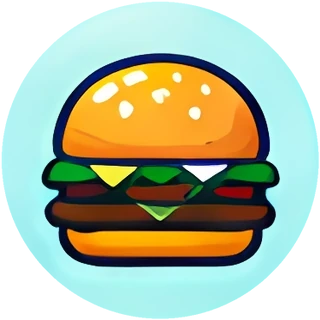
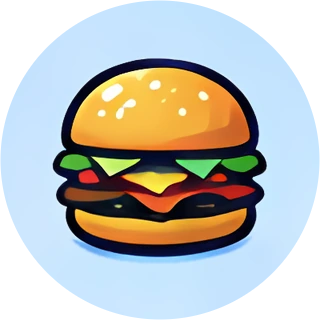
Images de profil v2 : 40 images de la nouvelle planche, agrandies et recentrées, nouveaux niveaux (v170)
Claude-Session: https://claude.ai/code/session_015rMa72ZKTeXG5gb4Qifn48

diff --git a/js/app.js b/js/app.js
@@ -1,17 +1,17 @@
 // Y'a du peuple ? — logique de l'appli (carte, fiche, signalement, compte).
-import { api, DEMO } from './api.js?v=169';
+import { api, DEMO } from './api.js?v=170';
 import {
   MAP_STYLE_URL, DEFAULT_CENTER, DEFAULT_ZOOM, CONTACT_EMAIL, GOOGLE_CLIENT_ID,
   ROUTE, REFRESH_MS,
-} from './config.js?v=169';
+} from './config.js?v=170';
 import {
   LEVELS, LEVEL_INFO, WAIT_INFO, NO_INFO, levelInfo, describeStatus, mainStatus, brandShort,
   theoryLevelAt, parisNow, bestTimeToday, fmtHour, distanceM, fmtDistance, ago,
   levelFromPercent, gDay, dayHours, openDuringHour, bestTimeFromProfile, openState, hoursLines,
   estimateRoute, fmtDuration,
-} from './levels.js?v=169';
-import { airbnbize, addShieldImage } from './mapstyle.js?v=169';
-import { BRAND_PATHS } from './brands.js?v=169';
+} from './levels.js?v=170';
+import { airbnbize, addShieldImage } from './mapstyle.js?v=170';
+import { BRAND_PATHS } from './brands.js?v=170';
 
 // ---------------------------------------------------------------------------
 // État
@@ -1592,7 +1592,7 @@ async function renderAccount(tab = 'profil') {
     </div>
     <div class="referral">
       <div class="ref-head">
-        <img class="ref-ico" src="icons/badges/ref1.webp?v=169" alt="">
+        <img class="ref-ico" src="icons/badges/ref1.webp?v=170" alt="">
         <div class="grow"><div class="t">Parrainage</div><div class="s">Invite tes amis : vous gagnez tous les deux.</div></div>
         <span class="ref-count"><b>${p.referrals ?? 0}</b>${(p.referrals ?? 0) > 1 ? 'amis' : 'ami'}</span>
       </div>
@@ -1638,8 +1638,8 @@ const custom = {
   async load() { if (!this.list.length) this.list = await api.customizations() || []; return this.list; },
   find(kind, code) { return this.list.find((c) => c.kind === kind && c.code === code); },
   // Valeur = fichier image de l'appli (icons/avatars/…svg, icons/banners/…svg) ; ancien format emoji/dégradé toléré.
-  img(v, cls = '') { return /\.(webp|png|svg)$/.test(v || '') ? `<img src="${v}?v=169" alt="" class="${cls}">` : (v || ''); },
-  bg(v) { return /\.(webp|png|svg)$/.test(v || '') ? `url(${v}?v=169) center/cover` : v; },
+  img(v, cls = '') { return /\.(webp|png|svg)$/.test(v || '') ? `<img src="${v}?v=170" alt="" class="${cls}">` : (v || ''); },
+  bg(v) { return /\.(webp|png|svg)$/.test(v || '') ? `url(${v}?v=170) center/cover` : v; },
   avatar(code) { return this.img(this.find('avatar', code)?.value, 'avatar-img' + (String(code).startsWith('badge_') ? ' is-badge' : '')); },
   // Bannière = ruban qui porte le pseudo (rubans du 16/11/2026, outils/rubans_sheet2.py, découpés tels quels).
   // Pseudo : centré sur la bande de chaque ruban (hauteur mesurée) + contour de la couleur du ruban, foncée.
@@ -1647,7 +1647,7 @@ const custom = {
   ribbon(code, pseudo) {
     const b = this.find('banner', code) || this.list.find((c) => c.kind === 'banner');
     const [ty, tc] = this.RIB[b?.code] || ['46%', '#0B1F3A'];
-    return `<div class="ribbon" style="--ty:${ty};--tc:${tc}">${b ? `<img src="${b.value}?v=169" alt="">` : ''}<span>${esc(pseudo || '')}</span></div>`;
+    return `<div class="ribbon" style="--ty:${ty};--tc:${tc}">${b ? `<img src="${b.value}?v=170" alt="">` : ''}<span>${esc(pseudo || '')}</span></div>`;
   },
 };
 async function openCustomize() {
@@ -1659,7 +1659,7 @@ async function openCustomize() {
     const needBadge = c.requires_badge && !mine.has(c.requires_badge);
     const locked = lvl < c.min_level || needBadge;
     const on = (c.kind === 'avatar' ? p.avatar : p.banner) === c.code;
-    const inner = c.kind === 'avatar' ? `<span class="cz-emoji">${custom.img(c.value, 'cz-img')}</span>` : `<span class="cz-ribbon"><img src="${c.value}?v=169" alt=""></span>`;
+    const inner = c.kind === 'avatar' ? `<span class="cz-emoji">${custom.img(c.value, 'cz-img')}</span>` : `<span class="cz-ribbon"><img src="${c.value}?v=170" alt=""></span>`;
     const label = c.requires_badge ? (needBadge ? '🔒' : '✅') : `${locked ? '🔒 ' : ''}Niv. ${c.min_level}`;
     return `<button type="button" class="cz ${on ? 'on' : ''} ${locked ? 'locked' : ''}" data-kind="${c.kind}" data-code="${c.code}" ${locked ? 'disabled' : ''}>
       ${inner}<span class="cz-lock">${esc(label)}</span></button>`;
@@ -1739,7 +1739,7 @@ const BADGE_ART = new Set(['v1', 'v10', 'v50', 'v100', 'v250', 'v500', 'drive10'
 // Badges en .svg : plus aucun (outils/badges_sheet.py et badges_sheet2.py découpent les images ChatGPT).
 const BADGE_SVG = new Set(); // tous les badges sont maintenant des images ChatGPT (.webp)
 const badgeImg = (code) => BADGE_ART.has(code)
-  ? `<img src="icons/badges/${code}.${BADGE_SVG.has(code) ? 'svg' : 'webp'}?v=169" alt="" class="badge-img">`
+  ? `<img src="icons/badges/${code}.${BADGE_SVG.has(code) ? 'svg' : 'webp'}?v=170" alt="" class="badge-img">`
   : `<span class="badge-emoji">${BADGE_ICONS[code] || '🏅'}</span>`;
 async function badgesHtml() {
   const rows = await api.badgesProgress() || [];

diff --git a/js/demo.js b/js/demo.js
@@ -1,6 +1,6 @@
 // Faux serveur pour le mode démo (?demo) : aucune donnée réelle n'est lue ni écrite.
-import { DEMO_ESTABLISHMENTS } from './demo-data.js?v=169';
-import { distanceM, LEVELS, theoryLevelAt, parisNow } from './levels.js?v=169';
+import { DEMO_ESTABLISHMENTS } from './demo-data.js?v=170';
+import { distanceM, LEVELS, theoryLevelAt, parisNow } from './levels.js?v=170';
 
 const wait = (ms = 150) => new Promise((r) => setTimeout(r, ms));
 
@@ -102,30 +102,38 @@ export function createDemoApi() {
         ['avatar', 'tacos', 'icons/avatars/tacos.webp', 1],
         ['avatar', 'glace', 'icons/avatars/glace.webp', 1],
         ['avatar', 'cafe', 'icons/avatars/cafe.webp', 1],
+        ['avatar', 'sandwich', 'icons/avatars/sandwich.webp', 3],
+        ['avatar', 'milkshake', 'icons/avatars/milkshake.webp', 3],
         ['avatar', 'popcorn', 'icons/avatars/popcorn.webp', 5],
         ['avatar', 'donut', 'icons/avatars/donut.webp', 5],
-        ['avatar', 'cupcake', 'icons/avatars/cupcake.webp', 10],
+        ['avatar', 'pomme', 'icons/avatars/pomme.webp', 8],
+        ['avatar', 'patte', 'icons/avatars/patte.webp', 8],
         ['avatar', 'coeur', 'icons/avatars/coeur.webp', 10],
+        ['avatar', 'musique', 'icons/avatars/musique.webp', 10],
         ['avatar', 'etoile', 'icons/avatars/etoile.webp', 15],
-        ['avatar', 'voiture', 'icons/avatars/voiture.webp', 15],
+        ['avatar', 'foot', 'icons/avatars/foot.webp', 15],
+        ['avatar', 'basket', 'icons/avatars/basket.webp', 18],
+        ['avatar', 'photo', 'icons/avatars/photo.webp', 18],
         ['avatar', 'chat', 'icons/avatars/chat.webp', 20],
         ['avatar', 'chien', 'icons/avatars/chien.webp', 20],
         ['avatar', 'panda', 'icons/avatars/panda.webp', 25],
-        ['avatar', 'renard', 'icons/avatars/renard.webp', 25],
-        ['avatar', 'chouette', 'icons/avatars/chouette.webp', 30],
-        ['avatar', 'ours', 'icons/avatars/ours.webp', 30],
+        ['avatar', 'arbre', 'icons/avatars/arbre.webp', 25],
+        ['avatar', 'gamer', 'icons/avatars/gamer.webp', 30],
+        ['avatar', 'cadeau', 'icons/avatars/cadeau.webp', 30],
         ['avatar', 'trefle', 'icons/avatars/trefle.webp', 35],
         ['avatar', 'eclair', 'icons/avatars/eclair.webp', 35],
         ['avatar', 'flamme', 'icons/avatars/flamme.webp', 40],
         ['avatar', 'lunettes', 'icons/avatars/lunettes.webp', 40],
-        ['avatar', 'lion', 'icons/avatars/lion.webp', 45],
-        ['avatar', 'medaille', 'icons/avatars/medaille.webp', 45],
+        ['avatar', 'alien', 'icons/avatars/alien.webp', 45],
+        ['avatar', 'robot', 'icons/avatars/robot.webp', 45],
         ['avatar', 'trophee', 'icons/avatars/trophee.webp', 50],
-        ['avatar', 'licorne', 'icons/avatars/licorne.webp', 60],
-        ['avatar', 'dragon', 'icons/avatars/dragon.webp', 70],
+        ['avatar', 'ninja', 'icons/avatars/ninja.webp', 55],
+        ['avatar', 'pirate', 'icons/avatars/pirate.webp', 55],
+        ['avatar', 'montagne', 'icons/avatars/montagne.webp', 60],
+        ['avatar', 'vacances', 'icons/avatars/vacances.webp', 70],
         ['avatar', 'diamant', 'icons/avatars/diamant.webp', 80],
-        ['avatar', 'couronne', 'icons/avatars/couronne.webp', 90],
-        ['avatar', 'fusee', 'icons/avatars/fusee.webp', 100],
+        ['avatar', 'fusee', 'icons/avatars/fusee.webp', 90],
+        ['avatar', 'couronne', 'icons/avatars/couronne.webp', 100],
         ['banner', 'ruban_ciel', 'icons/banners/ruban_ciel.webp', 1],
         ['banner', 'ruban_bonbon', 'icons/banners/ruban_bonbon.webp', 1],
         ['banner', 'ruban_turquoise', 'icons/banners/ruban_turquoise.webp', 1],

diff --git a/index.html b/index.html
@@ -21,13 +21,13 @@
   <link rel="preconnect" href="https://tiles.openfreemap.org" crossorigin>
   <link rel="preconnect" href="https://ygekcpnsjbbdgtmlxdce.supabase.co" crossorigin>
   <link rel="manifest" href="manifest.webmanifest">
-  <link rel="icon" href="icons/fav-64.png?v=169" type="image/png" sizes="64x64">
-  <link rel="icon" href="icons/fav-192.png?v=169" type="image/png" sizes="192x192">
-  <link rel="apple-touch-icon" href="icons/icon-192.png?v=169">
+  <link rel="icon" href="icons/fav-64.png?v=170" type="image/png" sizes="64x64">
+  <link rel="icon" href="icons/fav-192.png?v=170" type="image/png" sizes="192x192">
+  <link rel="apple-touch-icon" href="icons/icon-192.png?v=170">
   <meta name="apple-mobile-web-app-capable" content="yes">
   <meta name="apple-mobile-web-app-status-bar-style" content="default">
   <link rel="stylesheet" href="vendor/maplibre-gl.css">
-  <link rel="stylesheet" href="css/app.css?v=169">
+  <link rel="stylesheet" href="css/app.css?v=170">
 </head>
 <body class="intro">
   <div id="map" aria-label="Carte des restaurants"></div>
@@ -70,7 +70,7 @@
   <section class="welcome" id="welcome" hidden>
     <div class="welcome-inner">
       <div class="welcome-logo">
-        <img src="icons/icon-512.png?v=169" alt="" width="110" height="110" style="border-radius:26px">
+        <img src="icons/icon-512.png?v=170" alt="" width="110" height="110" style="border-radius:26px">
       </div>
       <h1>Y'a du peuple&nbsp;?</h1>
       <p class="slogan" id="slogan">Venu pour manger, pas pour poireauter.</p>
@@ -89,6 +89,6 @@
 
   <script src="vendor/maplibre-gl.js"></script>
   <script src="vendor/supabase.js"></script>
-  <script type="module" src="js/app.js?v=169"></script>
+  <script type="module" src="js/app.js?v=170"></script>
 </body>
 </html>

diff --git a/demo.html b/demo.html
@@ -7,12 +7,12 @@
   <meta name="description" content="L'affluence des fast-foods en direct, salle et Drive.">
   <meta name="theme-color" content="#0B1F3A">
   <link rel="manifest" href="manifest.webmanifest">
-  <link rel="icon" href="icons/fav-64.png?v=169" type="image/png">
-  <link rel="apple-touch-icon" href="icons/icon-192.png?v=169">
+  <link rel="icon" href="icons/fav-64.png?v=170" type="image/png">
+  <link rel="apple-touch-icon" href="icons/icon-192.png?v=170">
   <meta name="apple-mobile-web-app-capable" content="yes">
   <meta name="apple-mobile-web-app-status-bar-style" content="default">
   <link rel="stylesheet" href="vendor/maplibre-gl.css">
-  <link rel="stylesheet" href="css/app.css?v=169">
+  <link rel="stylesheet" href="css/app.css?v=170">
 </head>
 <body class="intro">
   <div id="map" aria-label="Carte des restaurants"></div>
@@ -55,7 +55,7 @@
   <section class="welcome" id="welcome" hidden>
     <div class="welcome-inner">
       <div class="welcome-logo">
-        <img src="icons/icon-512.png?v=169" alt="" width="110" height="110" style="border-radius:26px">
+        <img src="icons/icon-512.png?v=170" alt="" width="110" height="110" style="border-radius:26px">
       </div>
       <h1>Y'a du peuple&nbsp;?</h1>
       <p class="slogan" id="slogan">Venu pour manger, pas pour poireauter.</p>
@@ -75,6 +75,6 @@
   <script>window.YDP_DEMO = true;</script>
   <script src="vendor/maplibre-gl.js"></script>
   <script src="vendor/supabase.js"></script>
-  <script type="module" src="js/app.js?v=169"></script>
+  <script type="module" src="js/app.js?v=170"></script>
 </body>
 </html>

diff --git a/affiche.html b/affiche.html
@@ -68,9 +68,9 @@
     <div class="url">yadupeuple.github.io · gratuit, sans téléchargement</div>
   </div>
 
-  <script src="vendor/qrcode.js?v=169"></script>
+  <script src="vendor/qrcode.js?v=170"></script>
   <script type="module">
-    import { SUPABASE_URL, SUPABASE_PUBLISHABLE_KEY } from './js/config.js?v=169';
+    import { SUPABASE_URL, SUPABASE_PUBLISHABLE_KEY } from './js/config.js?v=170';
     const SITE = 'https://yadupeuple.github.io/';
     const pick = document.getElementById('pick');
     const params = new URLSearchParams(location.search);

diff --git a/js/api.js b/js/api.js
@@ -1,6 +1,6 @@
 // Accès aux données : Supabase en vrai, ou un faux serveur en mode démo (?demo).
-import { SUPABASE_URL, SUPABASE_PUBLISHABLE_KEY } from './config.js?v=169';
-import { createDemoApi } from './demo.js?v=169';
+import { SUPABASE_URL, SUPABASE_PUBLISHABLE_KEY } from './config.js?v=170';
+import { createDemoApi } from './demo.js?v=170';
 
 // Charge une table par pages de 1000 : 5 pages en parallèle, puis la suite si besoin.
 async function pagesInParallel(page, first = 5) {

diff --git a/outils/avatars_v2.py b/outils/avatars_v2.py
@@ -1,0 +1,79 @@
+"""Images de profil v2 (17/11/2026) : planche d'Alexis outils/src/planche_profil_v2.png (40 images, 8 × 5).
+Chaque bulle est découpée (cercles repérés : outils/src/planche_profil_v2_bulles.json), agrandie ×4 (Real-ESRGAN anime 6B),
+détourée en cercle lisse, puis le dessin est recentré dans sa bulle (déplacé, jamais redessiné).
+Anciennes images : outils/src/avatars_v1/. Usage (depuis /home/claude/art pour le modèle) :
+  python3 /home/claude/yadupeuple/outils/avatars_v2.py [code]"""
+import sys, json, numpy as np, onnxruntime as ort
+from PIL import Image, ImageFilter
+from scipy import ndimage
+ROOT = '/home/claude/yadupeuple/'
+sess = ort.InferenceSession('/home/claude/art/models/anime6b.onnx', providers=['CPUExecutionProvider'])
+P = Image.open(ROOT + 'outils/src/planche_profil_v2.png').convert('RGB')
+C = json.load(open(ROOT + 'outils/src/planche_profil_v2_bulles.json'))
+NO_RECENTER = {'montagne'}
+COLOR_MASK = {'milkshake'}   # verre transparent + bulles détachées : dessin repéré par ses couleurs   # paysage qui remplit la bulle
+only = sys.argv[1:]
+
+def up4(img):
+    pad = 8
+    a = np.asarray(img).astype(np.float32) / 255
+    a = np.pad(a, ((pad, pad), (pad, pad), (0, 0)), mode='reflect')
+    o = sess.run(None, {'input': a.transpose(2, 0, 1)[None]})[0][0].transpose(1, 2, 0)
+    return Image.fromarray((np.clip(o, 0, 1) * 255 + .5).astype(np.uint8)[pad * 4:-pad * 4, pad * 4:-pad * 4])
+
+S = 320
+for code, (cx, cy, r) in C.items():
+    if only and code not in only: continue
+    m = 8
+    box = (round(cx - r - m), round(cy - r - m), round(cx + r + m), round(cy + r + m))
+    cache = ROOT + f'outils/src/avatars_v2_x4/{code}.png'
+    try: big = Image.open(cache).convert('RGB')
+    except FileNotFoundError:
+        big = up4(P.crop(box)); big.save(cache)
+    k = big.width / (box[2] - box[0])
+    # recadrage : cercle (rayon r - 1 pour ne pas garder le bord) → 320 px
+    R = (r - 1.0) * k
+    ccx, ccy = (cx - box[0]) * k, (cy - box[1]) * k
+    sc = (S / 2) / R
+    im = big.resize((round(big.width * sc), round(big.height * sc)), Image.LANCZOS)
+    ox, oy = ccx * sc - S / 2, ccy * sc - S / 2
+    im = im.crop((round(ox), round(oy), round(ox) + S, round(oy) + S))
+    rgb = np.asarray(im).astype(float)
+    yy, xx = np.mgrid[0:S, 0:S]; rr = np.hypot(xx - S / 2 + .5, yy - S / 2 + .5)
+    alpha = np.clip(S / 2 - rr, 0, 1) * 255
+    if code not in NO_RECENTER:
+        mx, mn = rgb.max(2), rgb.min(2)
+        # dessin = tout ce qui est entouré par son trait foncé (l'ombre bleue portée reste dehors)
+        dark = (mx < 115) & (rr < S / 2 * 0.93)
+        subj = ndimage.binary_fill_holes(ndimage.binary_closing(dark, iterations=3))
+        subj |= (rr < S / 2 * 0.93) & (((mx - mn) > 70) & ndimage.binary_dilation(subj, iterations=6))
+        subj = ndimage.binary_fill_holes(ndimage.binary_closing(subj, iterations=2))
+        if code in COLOR_MASK:
+            subj = (rr < S / 2 * 0.9) & (((mx - mn) > 70) | (mx < 150))
+            subj = ndimage.binary_fill_holes(ndimage.binary_closing(subj, iterations=3))
+        lab, n = ndimage.label(subj)
+        sizes = ndimage.sum(subj, lab, range(1, n + 1))
+        subj = np.isin(lab, [i + 1 for i, s_ in enumerate(sizes) if s_ >= max(60, sizes.max() * 0.02)])
+        sy, sx = np.where(subj)
+        dx = round(S / 2 - (sx.min() + sx.max() + 1) / 2); dy = round(S / 2 - (sy.min() + sy.max() + 1) / 2)
+        # bulle propre : couleur de fond lissée, sans ombre ni petites taches
+        ring = ndimage.binary_dilation(subj, iterations=5)
+        inb = (rr < S / 2 - 2) & ~ring
+        med = np.median(rgb[inb], axis=0)
+        odd = inb & (np.sqrt(((rgb - med) ** 2).sum(2)) > 22)          # ombres, taches
+        known = (inb & ~ndimage.binary_dilation(odd, iterations=3)).astype(float)
+        num = rgb * known[..., None]
+        base = np.zeros_like(rgb); hole = np.ones(known.shape, bool)
+        for s_ in (6, 12, 24, 48, 96):
+            n2 = np.dstack([ndimage.gaussian_filter(num[..., c], s_) for c in range(3)]); d2 = ndimage.gaussian_filter(known, s_)
+            ok = hole & (d2 > 0.05)
+            base[ok] = (n2 / np.maximum(d2, 1e-6)[..., None])[ok]; hole &= ~ok
+        base[hole] = med
+        base = np.dstack([ndimage.gaussian_filter(base[..., c], 6) for c in range(3)])
+        soft = np.asarray(Image.fromarray((ndimage.binary_dilation(subj, iterations=1) * 255).astype('uint8')).filter(ImageFilter.GaussianBlur(1.0))) / 255.0
+        sh = lambda arr: np.roll(np.roll(arr, dy, 0), dx, 1)
+        rgb = base * (1 - sh(soft)[..., None]) + sh(rgb) * sh(soft)[..., None]
+    else:
+        dx = dy = 0
+    Image.fromarray(np.dstack([rgb, alpha]).clip(0, 255).astype('uint8'), 'RGBA').save(ROOT + f'icons/avatars/{code}.webp', quality=92, method=6)
+    print(code, dx, dy, flush=True)

diff --git a/CLAUDE.md b/CLAUDE.md
@@ -158,6 +158,12 @@ Erreurs de submit_report : `{ok:false, error, message}` — afficher `message` t
   Fiable (10 signalements confirmés, image éclair), Sentinelle (code coup_de_feu, 20 confirmés, image bouclier ; remplace « pic d'affluence »),
   Œil de lynx (50 confirmés, diamant). Confirmé = un autre compte signale le même resto + même service à 30 min près, niveau égal ou voisin
   (confirmed_reports_count) ; trigger reports_award_confirmed : le badge tombe aussi quand c'est l'autre qui confirme.
+- Images de profil v2 (17/11/2026, v170, supabase/2026-11-17_images_profil_v2.sql) : planche de 40 images d'Alexis
+  (outils/src/planche_profil_v2.png) agrandie ×4 et recentrée (outils/avatars_v2.py, bulles bleu clair nettoyées) ; niveaux : 1 burger frites pizza soda
+  hotdog tacos glace café · 3 sandwich milkshake · 5 pop-corn donut · 8 pomme patte · 10 cœur musique · 15 étoile foot · 18 basket photo ·
+  20 chat chien · 25 panda arbre · 30 gamer cadeau · 35 trèfle éclair · 40 feu lunettes · 45 alien robot · 50 trophée · 55 ninja pirate ·
+  60 montagne · 70 vacances · 80 diamant · 90 fusée · 100 couronne. Désactivées (fichiers gardés, outils/src/avatars_v1/) : cupcake, voiture,
+  renard, chouette, ours, lion, médaille, licorne, dragon.
 - Signalement (v160-162) : petit lexique « 💡 Comment choisir ? » repliable (fermé par défaut) sous les 4 choix (LEXIQUE dans app.js, textes salle / Drive) ; le choix fait ressort, les autres s'estompent.
 
 ## Objectif et croissance (dit par Alexis le 15/11/2026)
